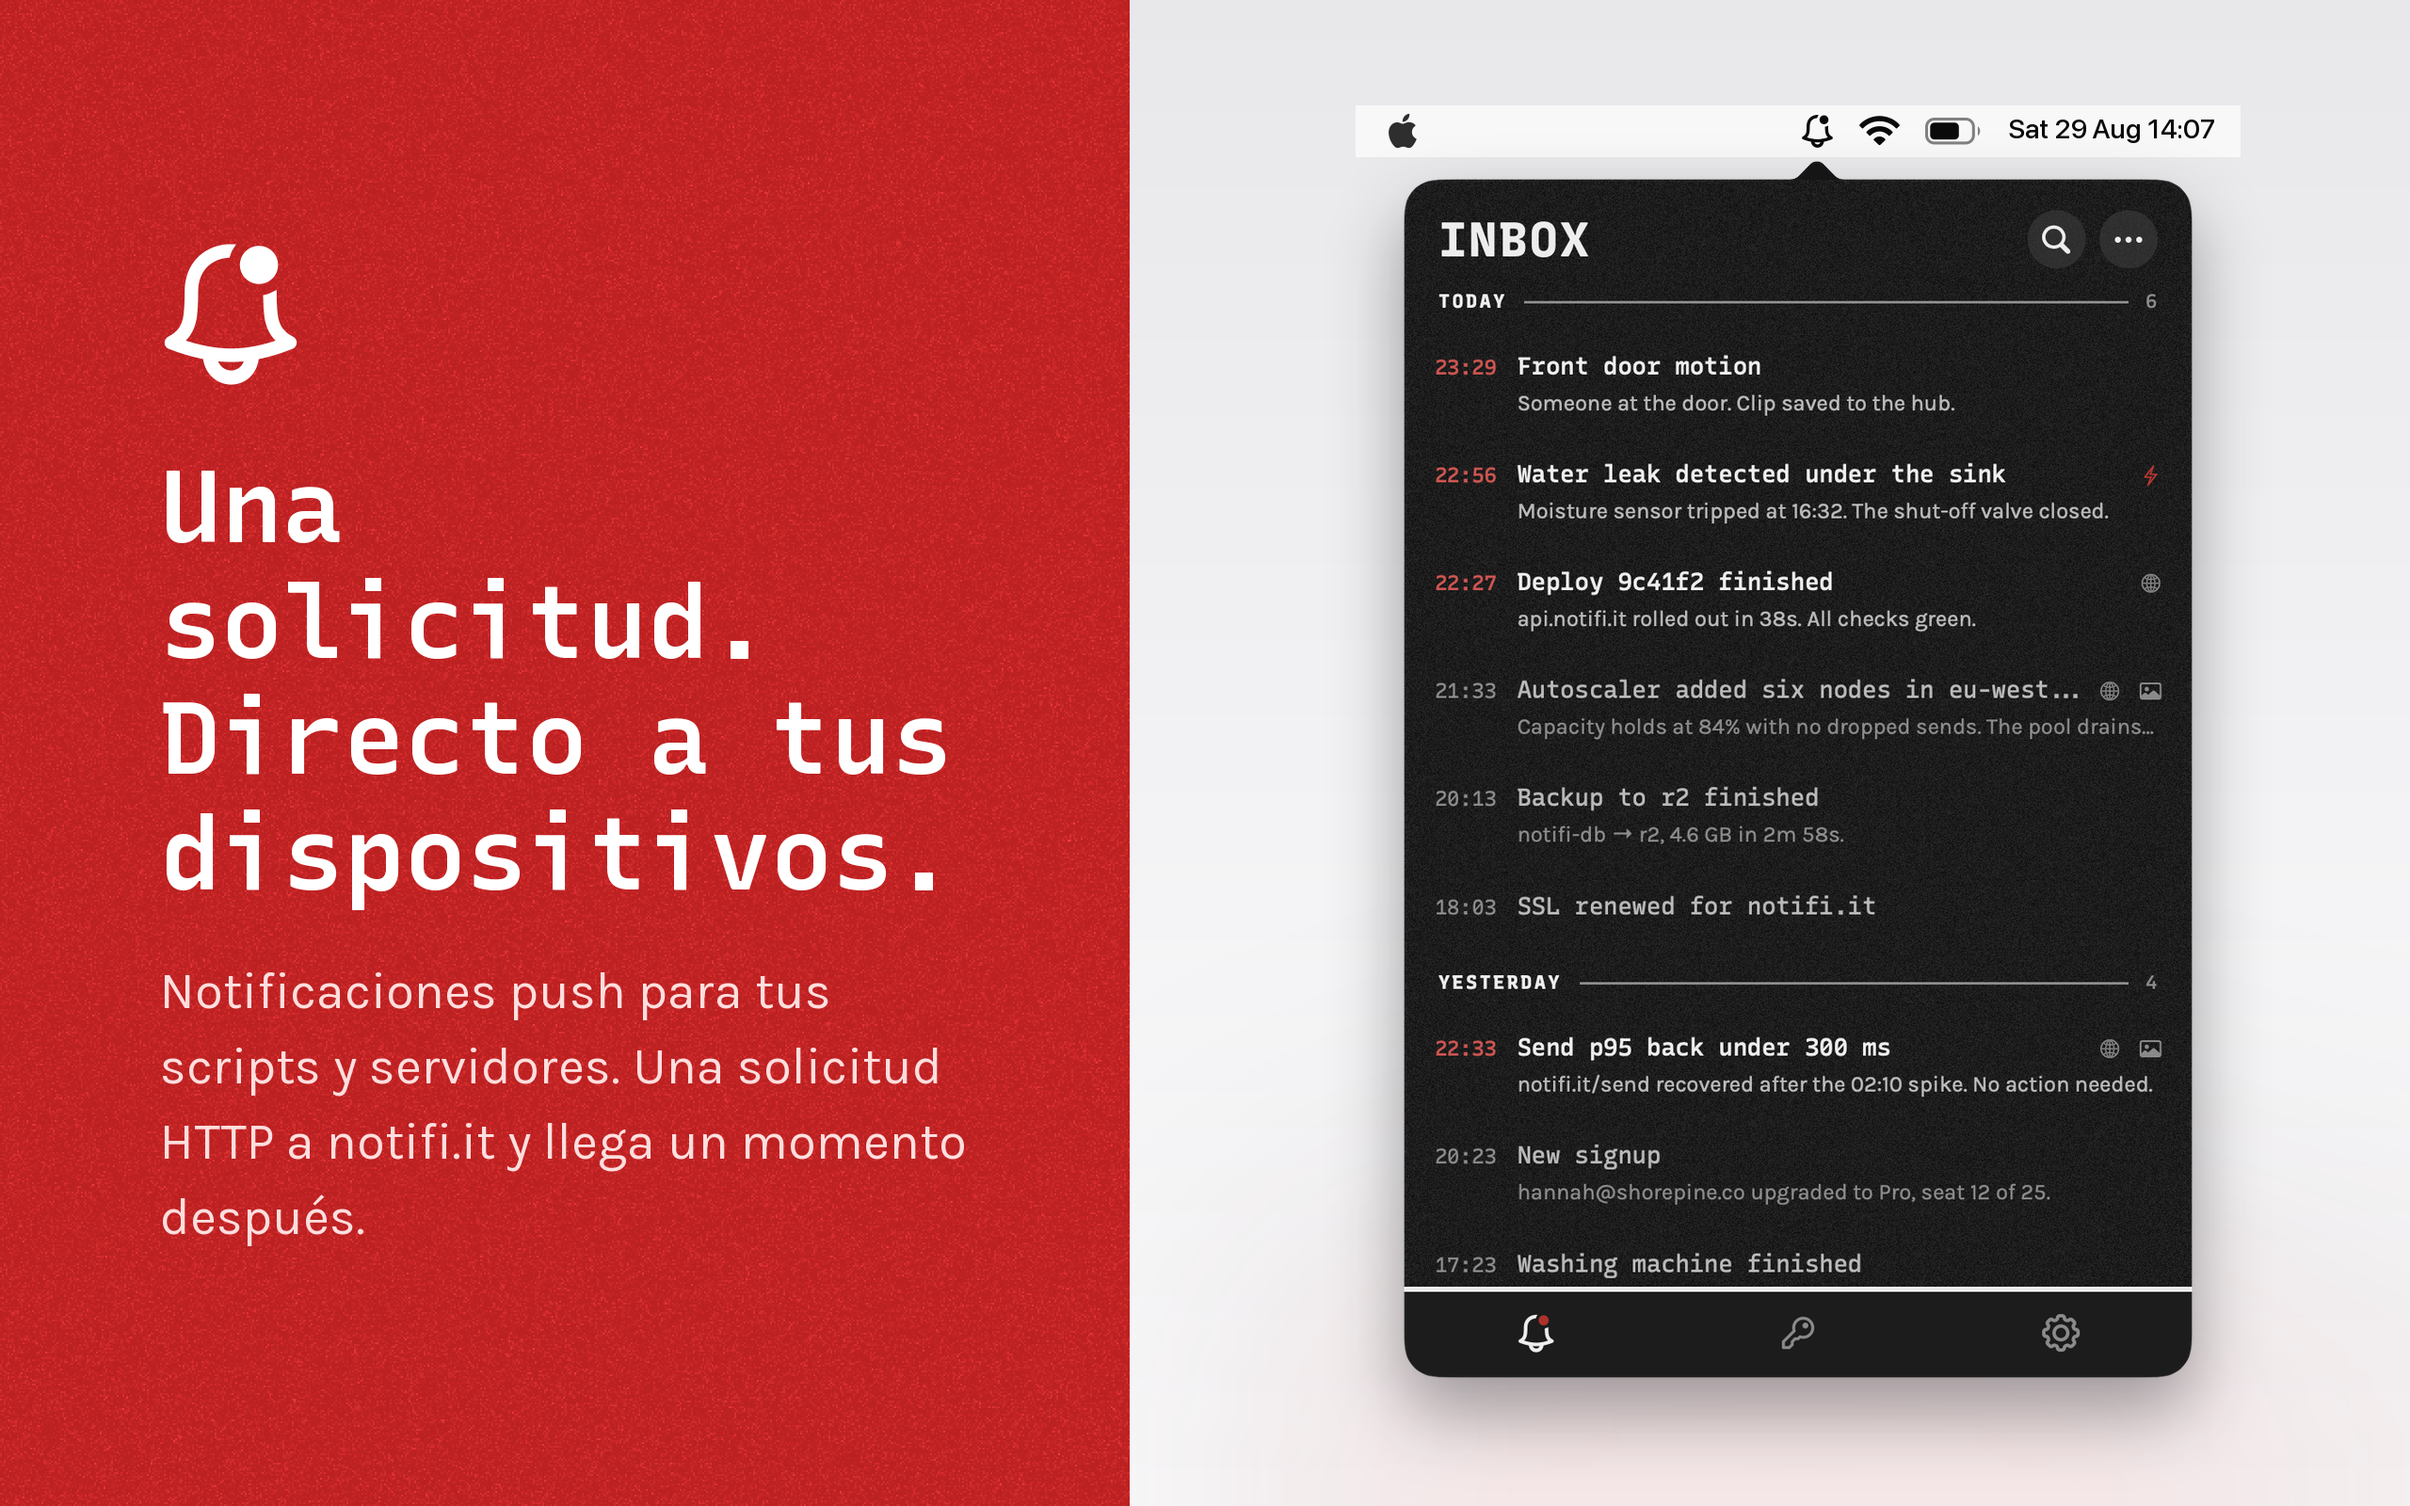
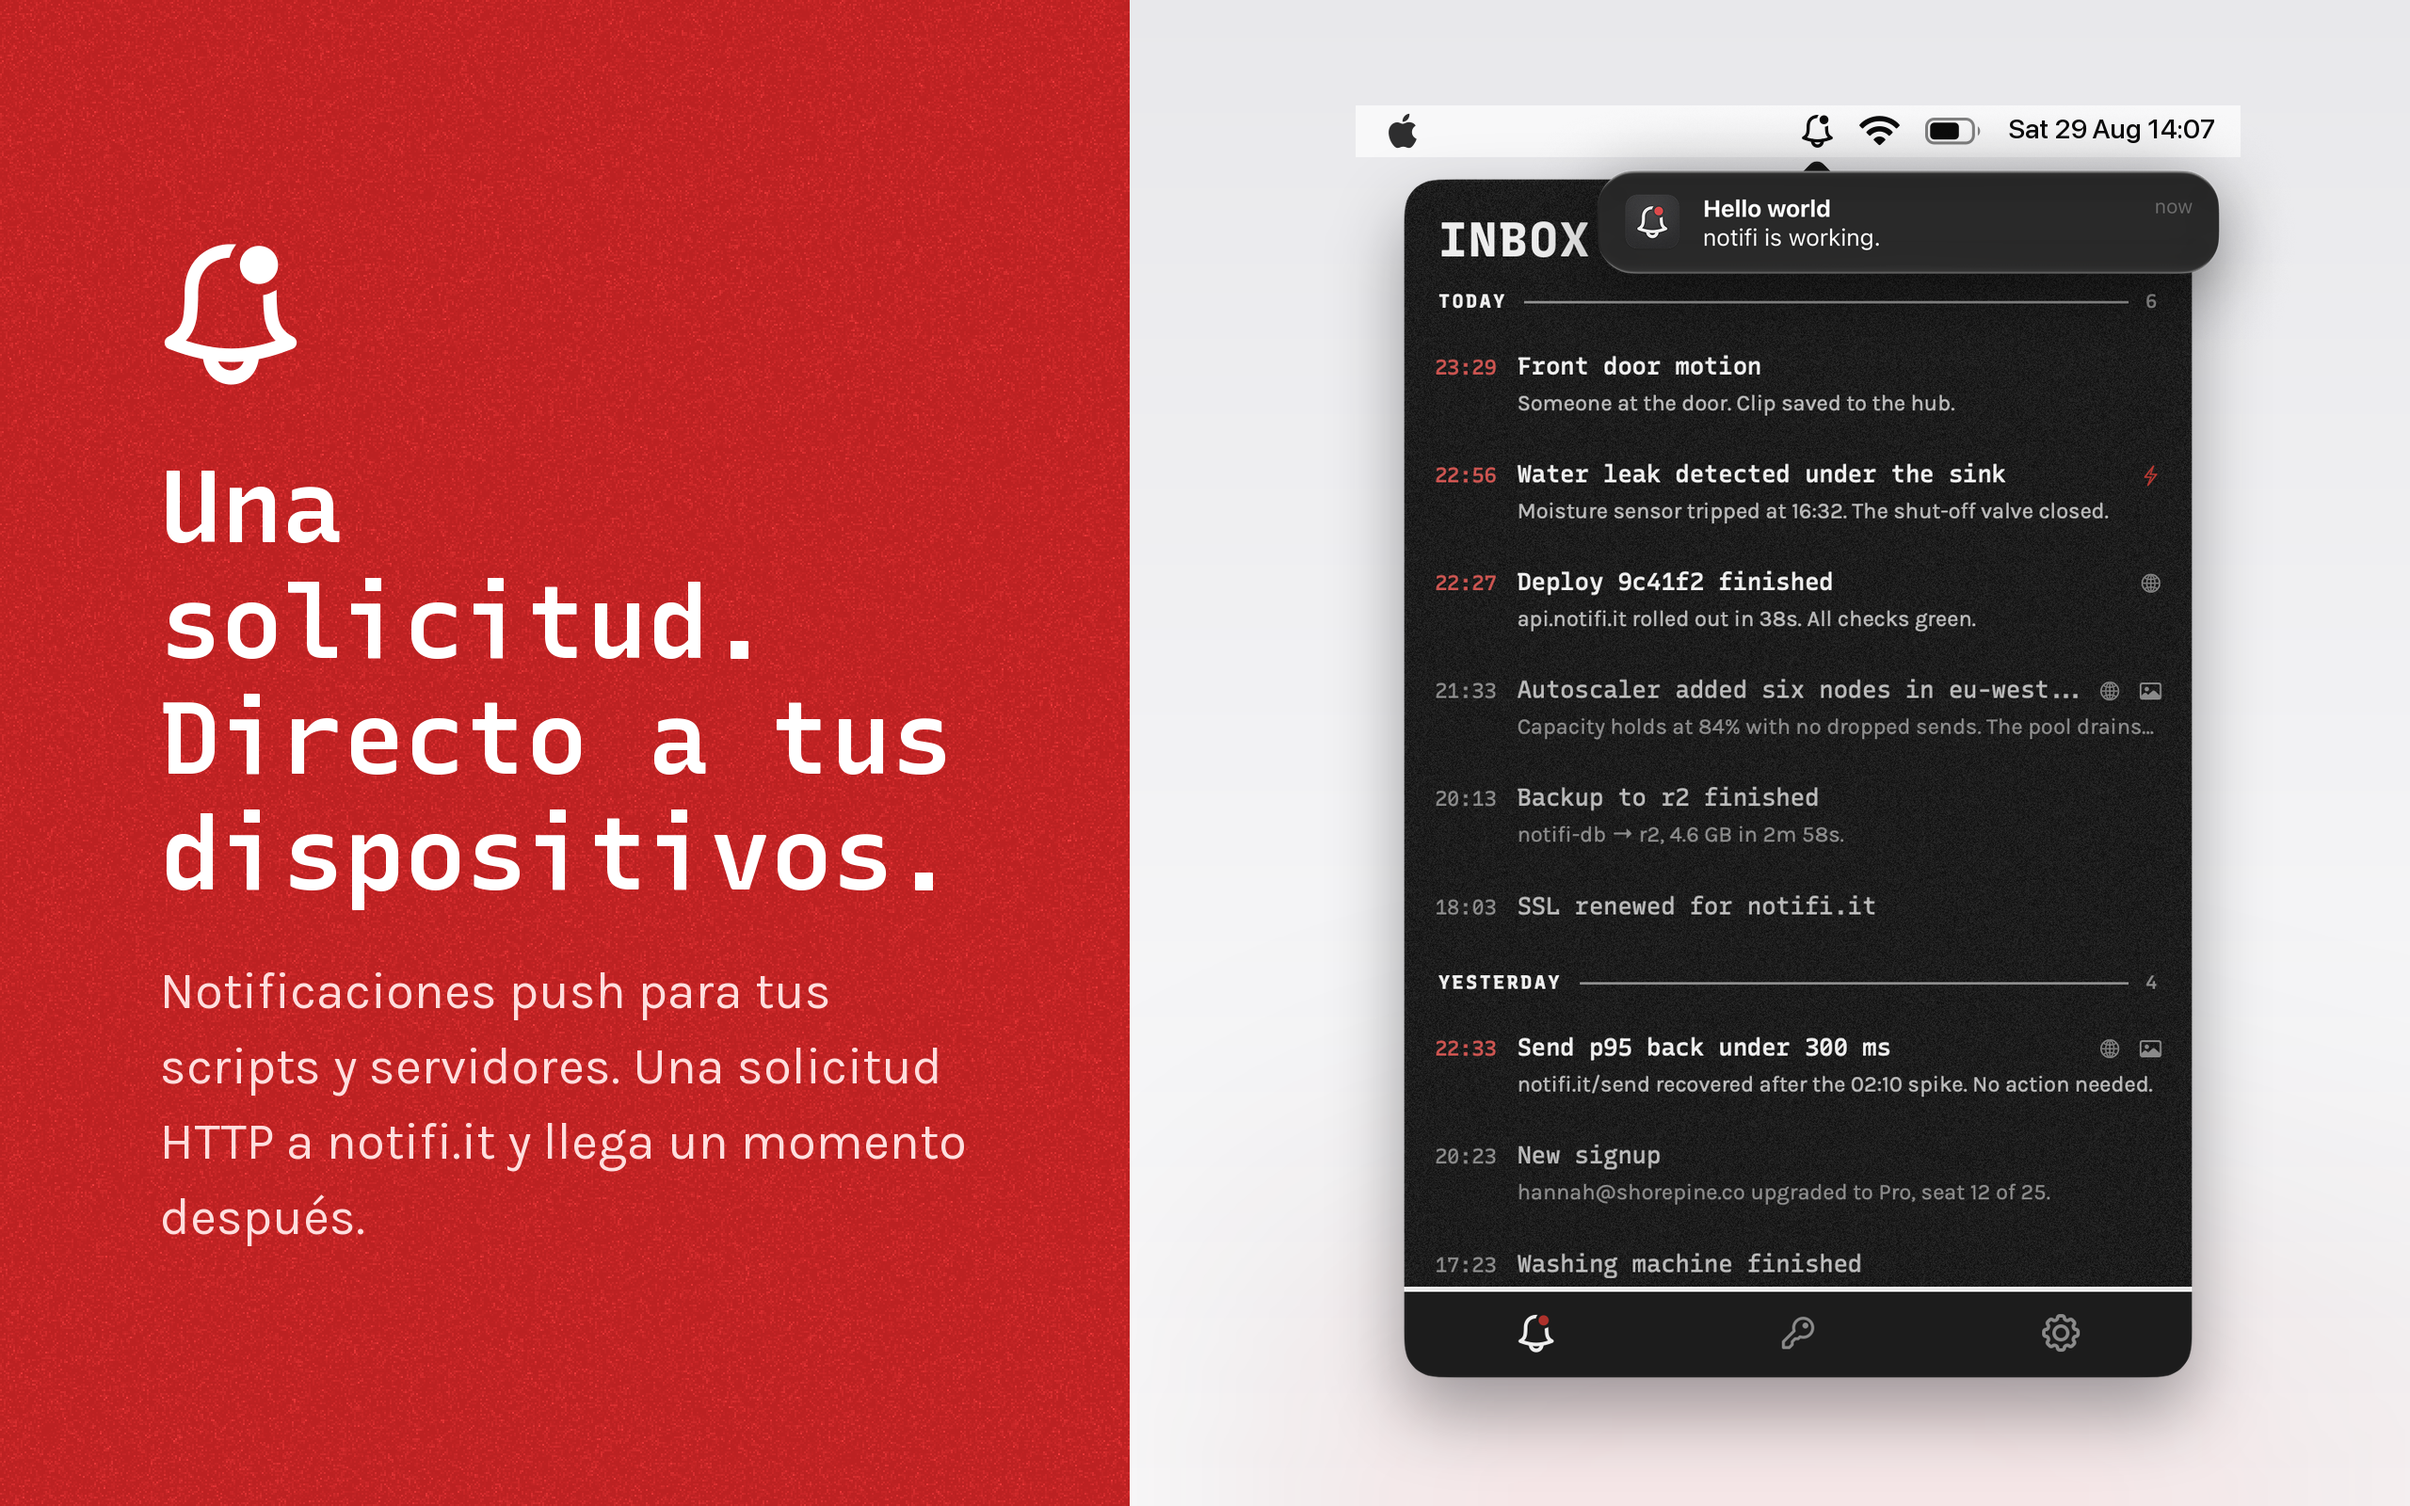
Show a notification arriving on the Mac App Store's first frame
The Mac listing showed the inbox but never the thing that fills it. The first
frame now carries a banner under the menu bar, where the system draws one, so
the shot says what the app does before the caption does.

The banner is a mockup from Apple's own macOS UI kit rather than a capture: a
real banner lasts about five seconds and brings the desk behind it along. It
carries the copy the empty state tells a new reader to send, so what the
listing shows is what they can reproduce on the first try.

Only frame 1 gets one; on the other two it would cover the screen being shown.

Changed region(s): [[0.6562, 0.0938, 0.9375, 0.1875]]

diff --git a/apps/app/Scripts/appstore-frames-mac.py b/apps/app/Scripts/appstore-frames-mac.py
@@ -57,10 +57,26 @@ BAR_H = round(5.83 * CQW)
 SITE = f"{REPO}/apps/api/public"
 SYSTEM_FONT = "/System/Library/Fonts/SFNS.ttf"
 
+# The banner is drawn in Apple's own macOS UI kit and exported from Figma --
+# see .claude/skills/notification-mockup. It is a mockup because the alternative
+# is photographing a real banner, which lasts about five seconds and takes the
+# desk behind it with it.
+BANNER = f"{REPO}/apps/app/Scripts/assets/notification-banner.png"
+# A macOS banner is 344pt wide and the popover is 461pt, the width index.html
+# gives .mac-shot. Sizing the banner against the popover rather than the frame
+# keeps the pair at the ratio a real screen shows them at, whatever POPOVER_H
+# is set to.
+BANNER_PT, POPOVER_PT = 344, 461
+# Where the system puts it: under the bar, in from the right edge.
+BANNER_TOP_PT, BANNER_RIGHT_PT = 8, 12
+
+# The fourth field says whether a banner is laid over the popover. Only the
+# first frame gets one -- it is the shot that has to say what the app does, and
+# on the other two the banner would cover the thing being shown.
 FRAMES = [
-    ("mac-inbox.png", "inboxTitleIpad", "inboxBody", "01_inbox.png"),
-    ("mac-detail.png", "messageTitle", "messageBody", "02_message.png"),
-    ("mac-keys.png", "keysTitle", "keysBody", "03_keys.png"),
+    ("mac-inbox.png", "inboxTitleIpad", "inboxBody", "01_inbox.png", True),
+    ("mac-detail.png", "messageTitle", "messageBody", "02_message.png", False),
+    ("mac-keys.png", "keysTitle", "keysBody", "03_keys.png", False),
 ]
 
 
@@ -252,12 +268,45 @@ def menu_bar(canvas, desk, out_dir):
     return bell_x
 
 
+def banner(canvas, desk, popover_w):
+    """Lay the notification over the popover's top right, where the system
+    draws it -- a banner is above everything, so it covers the inbox's first
+    rows rather than making room in them."""
+    if not os.path.exists(BANNER):
+        sys.exit(f"{BANNER} is missing -- see .claude/skills/notification-mockup")
+    art = Image.open(BANNER).convert("RGBA")
+
+    # The export carries its drop shadow, so its edges are not the banner's.
+    # The opaque core is measured rather than written down: re-exporting at a
+    # different scale changes the padding, and a hard-coded inset would move
+    # the banner instead of failing.
+    core = art.getchannel("A").point(lambda v: 255 if v > 200 else 0).getbbox()
+    if not core:
+        sys.exit(f"{BANNER} has no opaque core -- is it the right file?")
+    core_w = core[2] - core[0]
+
+    px_per_pt = popover_w / POPOVER_PT
+    scale = (BANNER_PT * px_per_pt) / core_w
+    art = art.resize((round(art.width * scale), round(art.height * scale)),
+                     Image.LANCZOS)
+
+    # Position by the core's edges, not the image's, so the shadow hangs
+    # outside the margin the way it does on screen.
+    right = desk[2] - round(BANNER_RIGHT_PT * px_per_pt)
+    top = desk[1] + BAR_H + round(BANNER_TOP_PT * px_per_pt)
+    canvas.alpha_composite(
+        art,
+        (right - round(core[2] * scale), top - round(core[1] * scale)),
+    )
+
+
 SPLIT = 1200
 RED_RGB = (0xBC, 0x21, 0x22)
 MARK = 150
 
 
-def frame(locale, captions, title_key, desc_key, popover, out_dir, out_name):
+def frame(locale, captions, title_key, desc_key, popover, out_dir, out_name,
+          with_banner):
     # The bar and the popover, nothing around them: the desk is the site's
     # .mac-desk width so the bar keeps its proportions, but it carries no
     # border and no ground below the popover. Centred on the right half.
@@ -343,13 +392,16 @@ def frame(locale, captions, title_key, desc_key, popover, out_dir, out_name):
     canvas.alpha_composite(shadow.filter(ImageFilter.GaussianBlur(36)))
     canvas.alpha_composite(popover, (left, top))
 
+    if with_banner:
+        banner(canvas, desk, popover.width)
+
     publish(canvas.convert("RGB"), f"{out_dir}/{out_name}", "PNG")
 
     for tmp in (mono, sans):
         os.remove(tmp)
 
 
-popovers = {raw: load_popover(raw) for raw, _, _, _ in FRAMES}
+popovers = {raw: load_popover(raw) for raw, _, _, _, _ in FRAMES}
 for locale, caption_key in [("en-US", "en-GB"), ("en-GB", "en-GB"),
                             ("de-DE", "de-DE"), ("es-ES", "es-ES"),
                             ("fr-FR", "fr-FR"), ("it", "it")]:
@@ -358,6 +410,6 @@ for locale, caption_key in [("en-US", "en-GB"), ("en-GB", "en-GB"),
     stale = f"{out_dir}/01_popover.png"
     if os.path.exists(stale):
         os.remove(stale)
-    for raw, title_key, desc_key, out_name in FRAMES:
+    for raw, title_key, desc_key, out_name, with_banner in FRAMES:
         frame(locale, CAPTIONS[caption_key], title_key, desc_key,
-              popovers[raw], out_dir, out_name)
+              popovers[raw], out_dir, out_name, with_banner)

diff --git a/.claude/skills/notification-mockup/SKILL.md b/.claude/skills/notification-mockup/SKILL.md
@@ -1,0 +1,109 @@
+---
+name: notification-mockup
+description: Draw a macOS notification banner for notifi in Apple's own Figma UI kit and export it as a PNG. Use when a banner image is needed for the website, the README or a store listing.
+---
+
+# A macOS notification banner, from Apple's kit
+
+This produces a picture of a banner, not a banner. For proof that a real push
+renders correctly, send one and screenshot the machine — see
+[docs/VERIFYING.md](../../../docs/VERIFYING.md). Use this when the target is a
+published image, where a real capture would carry a real desktop behind it.
+
+## The kit is Apple's, and it is already in the account
+
+Do not trace a screenshot into CSS and do not install a community "macOS UI"
+package; both drift from whatever Apple last shipped. The source is:
+
+1. <https://developer.apple.com/design/resources/> → macOS → the Figma link.
+2. **Open in Figma** offers *Use UI Kit in a new file* or *Make a copy*. Take
+   the first: it enables the library and leaves the kit's own multi-screen file
+   out of the account.
+3. Page **Notifications**. `Dark Example` and `Light Example` hold banners on a
+   wallpaper; the 850x450 section above them is the component definition. Edit
+   an example, never the definition — the definition feeds every instance.
+
+The kit tracks a named release (macOS 27 at the time of writing) and is marked
+Beta before that release ships. Check which, and say so wherever the image
+lands, because the styling still moves.
+
+## Copy comes from packages/copy, never from imagination
+
+The banner a reader meets first is the one the empty state tells them to send,
+so it is `empty.sampleTitle` and `empty.sampleMessage` — the same two strings
+`EmptyStateView` prints in its curl snippet. A banner captioned with anything
+else shows a product the reader cannot reproduce.
+
+Title and message are exposed as component properties on the `Notification`
+instance, so set them in the right-hand panel rather than by typing on canvas.
+Editing text the first time prompts for Apple's SF Pro licence, which is a
+person's decision to accept, not an agent's.
+
+## The app icon has two traps
+
+`icon-1024.png` is the unmasked square artwork — macOS applies the squircle
+itself, so pasting it gives a hard-cornered tile. `mac-*.png` are masked but
+carry the transparent margin macOS composites them with, so pasting one leaves
+the artwork at 86% of the slot and it reads as small next to Apple's own icons.
+
+Neither is right as-is. Crop the masked one to its own alpha bounds:
+
+```bash
+python3 -c "
+from PIL import Image
+im = Image.open('apps/app/Shared/Assets.xcassets/AppIcon.appiconset/mac-1024.png').convert('RGBA')
+im.crop(im.getchannel('A').getbbox()).save('/tmp/notifi-icon.png')"
+```
+
+Figma's *Upload from computer* opens a native file dialog, which an agent
+cannot drive. Go through the clipboard instead:
+
+```bash
+osascript -e 'set the clipboard to (read (POSIX file "/tmp/notifi-icon.png") as «class PNGf»)'
+```
+
+Then in Figma: select the `App Icon` node, **detach it** (`⌥⌘B`) — paste cannot
+replace a component instance — right-click → **Paste to replace**, and set the
+node back to 32x32, which the paste resets to the source image's size. Use the
+menu item, not `⇧⌘R`: Chrome takes that as a hard reload before Figma sees it.
+
+## Export
+
+Select the `Notification` node itself, not the stack. 3x PNG; the export
+carries the drop shadow and a transparent ground, so it composites onto any
+background. 344x56 at 3x is 1320x456 including that shadow's bleed.
+
+## Export it over a neutral ground, not the kit's wallpaper
+
+The banner material is translucent, so the export bakes in whatever is behind
+it. Over the kit's purple wallpaper the result measures (48,48,61) -- blue 13
+above red -- and against notifi's neutral popover it reads as a navy card.
+
+Before exporting, in `Dark Example`:
+
+1. Select the `Frame` under it and give it a solid Fill of the colour the
+   banner will sit on (`242424` for the popover).
+2. Hide the `Desktop Template` layer, which is the wallpaper.
+
+Then export. The same banner comes out neutral. Check it rather than trusting
+it -- sample the banner's interior and the surface it will sit on, and compare
+blue minus red.
+
+## Putting it in the Mac App Store frames
+
+`appstore-frames-mac.py` composites it over the first frame only, at
+`Scripts/assets/notification-banner.png`. It measures the PNG's opaque core at
+run time and positions by that, so the shadow padding may change between
+exports, but the banner's own width and margins may not.
+
+**A new export will not reach the frames on its own.** `publish_image.py` only
+rewrites a frame when enough pixels differ by more than `EPS = 48`, and a
+colour correction is far below that -- the run says `0.000% differs` and keeps
+the old frame, which is the failure this gate is documented to have. Force it:
+
+```bash
+PUBLISH_ALL=1 python3 apps/app/Scripts/appstore-frames-mac.py
+```
+
+The other frames re-render byte-identical, so `git status` still shows only
+what really moved and `sync_screenshots` still uploads only that.
